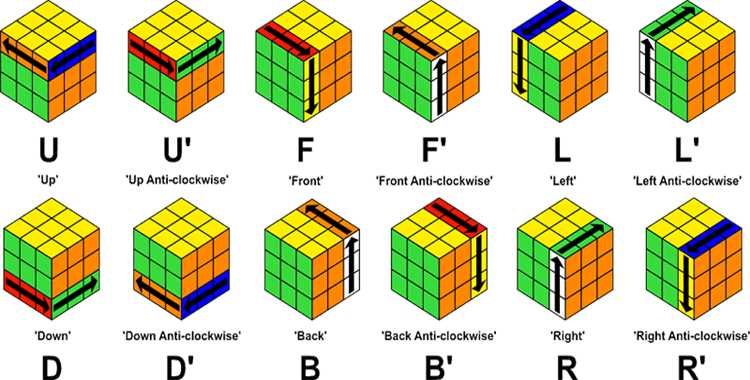
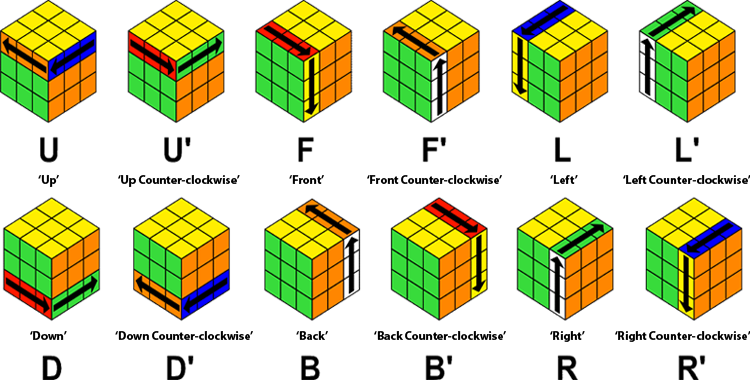
Consolidated cube pieces text and updated cubing notation image.

diff --git a/A9_RubiksCubeTutorial/mainwindow.cpp b/A9_RubiksCubeTutorial/mainwindow.cpp
@@ -258,13 +258,13 @@ void MainWindow::drawCubePiecesStep(){
     ui->img3Label->setPixmap(QPixmap::fromImage(QImage(":/preface/center.png").scaled(ui->img3Label->width(), ui->img3Label->height(), Qt::KeepAspectRatio)));
     ui->hintLabel->show();
     ui->hintTextLabel->show();
-    ui->hintTextLabel->setText("Edge: Pieces with two colors. There are twelve edge pieces located in the middle row. \n"
-                               "Coner: Pieces with three colors. There are eight corner pieces located on the corners. \n"
-                               "Center: Pieces with once color. There are six center pieces located in the center of each side, center pieces DO NOT MOVE and represent the color of their side/face. \n"
+    ui->hintTextLabel->setText("Edge: Pieces with two colors. There are twelve edge pieces. \n"
+                               "Corner: Pieces with three colors. There are eight corner pieces. \n"
+                               "Center: Pieces with one color. There are six stationary center pieces that each represent a face. \n"
                                "Center colors are always opposite each other: \n"
-                               "White is opposite yellow \n"
-                               "Orange is opposite red \n"
-                               "Green is opposite blue");
+                               "White is opposite yellow. "
+                               "Orange is opposite red. "
+                               "Green is opposite blue.");
 }
 
 void MainWindow::drawButtonMovesStep(){
@@ -281,7 +281,7 @@ void MainWindow::drawButtonMovesStep(){
     ui->hintTextLabel->show();
     ui->hintTextLabel->setText("Each face of the cube is represented by a letter. Each move is a 1/4 turn rotation in a clockwise rotation. "
                                "Letters with a ' are pronounced as \"LETTER prime\" and will have a counter-clockwise rotation. "
-                               "An move that starts with a letter and end with a 2 such as \"F2\" for example would mean to turn that face twice.");
+                               "Any move that starts with a letter and end with a 2 such as \"F2\" for example would mean to turn that face twice.");
 
 }
 
